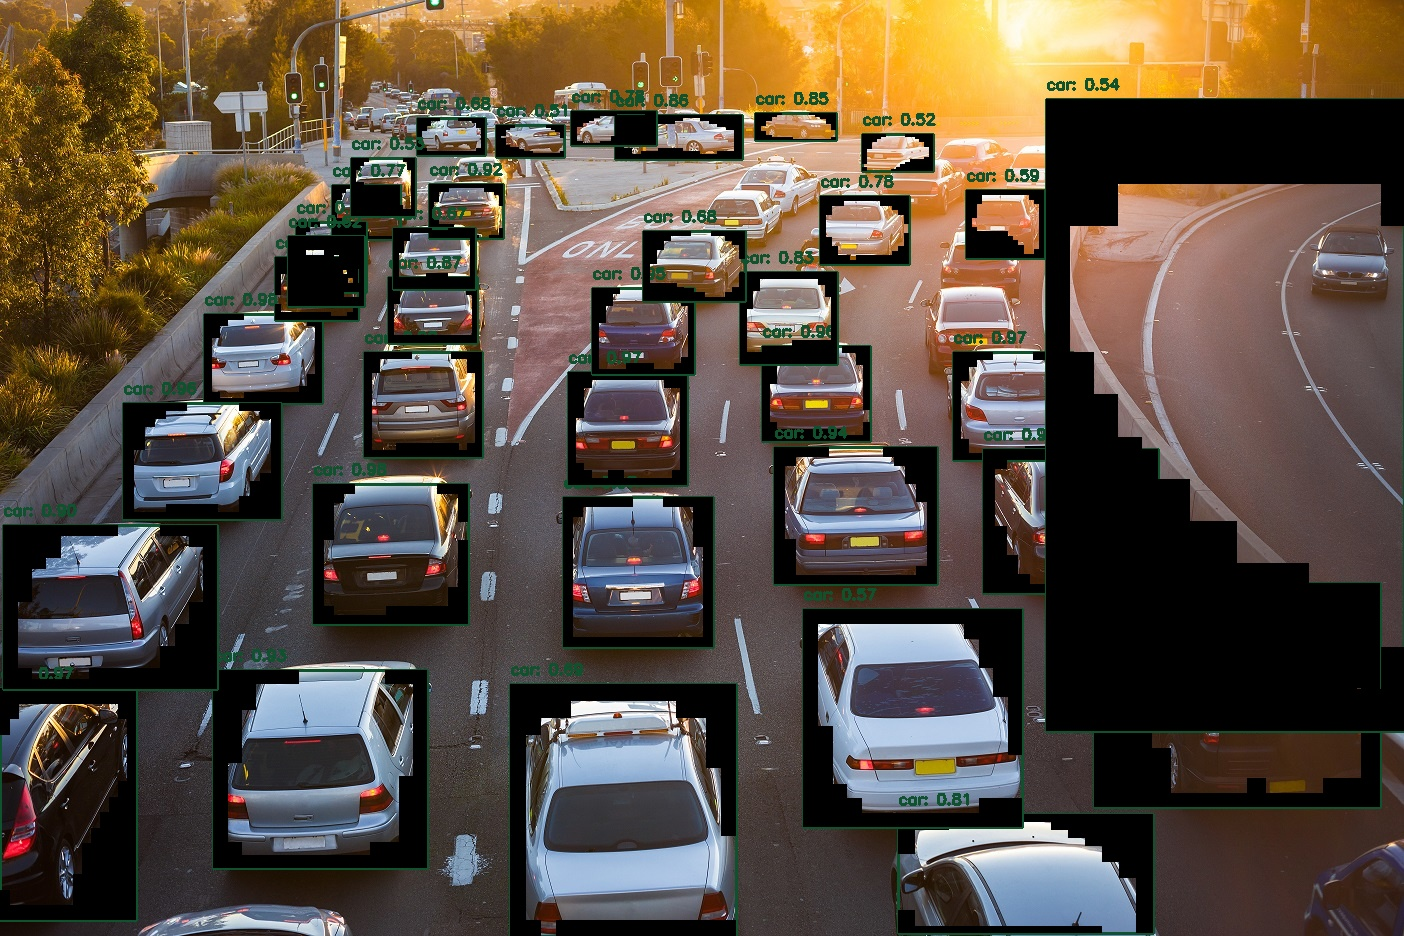
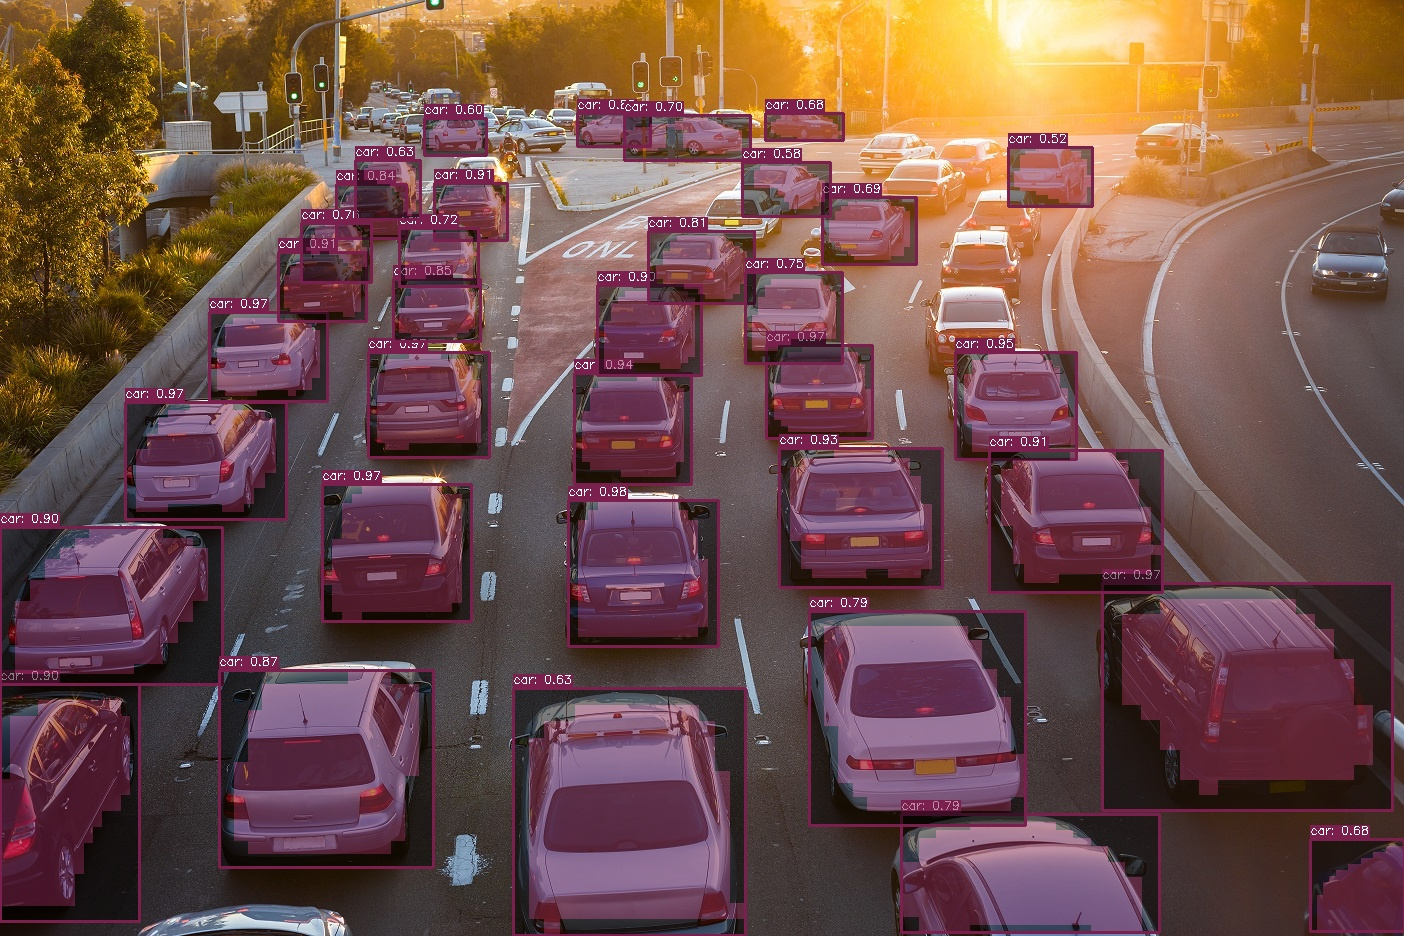
files added

diff --git a/app.py b/app.py
@@ -89,9 +89,6 @@ def process_frame(frame):
     # Perform forward pass to get the detections and masks
     (boxes, masks) = net.forward(["detection_out_final", "detection_masks"])
 
-    # Debug: Print the number of detections
-    print(f"Number of detections: {boxes.shape[2]}")
-
     # Loop through all detected objects and visualize the results
     for i in range(boxes.shape[2]):
         score = boxes[0, 0, i, 2]  # Get the confidence score
@@ -100,30 +97,35 @@ def process_frame(frame):
             box = boxes[0, 0, i, 3:7] * np.array([width, height, width, height])
             (x1, y1, x2, y2) = box.astype("int")  # Get the coordinates of the bounding box
 
-            # Debug: Print detection details
-            print(f"Detection {i}: Class={classes[class_id]}, Score={score:.2f}, Box={[x1, y1, x2, y2]}")
-
-            # Draw the bounding box
-            color = [int(c) for c in colors[class_id]]
-            cv2.rectangle(frame, (x1, y1), (x2, y2), color, 2)
-
-            # Display the label
-            label = f"{classes[class_id]}: {score:.2f}"
-            cv2.putText(frame, label, (x1, y1 - 10), cv2.FONT_HERSHEY_SIMPLEX, 0.5, color, 2)
-
             # Extract and resize the mask for the object
             mask = masks[i, class_id]
             mask = cv2.resize(mask, (x2 - x1, y2 - y1), interpolation=cv2.INTER_NEAREST)
 
-            # Threshold the mask and apply it to the region of interest (ROI)
-            mask = (mask > 0.5).astype("uint8") * 255  # Threshold to create a binary mask
-            roi = frame[y1:y2, x1:x2]
-            masked_roi = cv2.bitwise_and(roi, roi, mask=mask)  # Apply the mask to the ROI
-            frame[y1:y2, x1:x2] = masked_roi  # Replace the ROI with the masked version
+            # Threshold the mask to create a binary mask
+            mask = (mask > 0.5).astype("uint8")
+
+            # Create a dark color for the mask
+            color = [int(c * 0.5) for c in colors[class_id]]  # Darken the color
+
+            # Create a colored mask overlay
+            colored_mask = np.zeros_like(frame[y1:y2, x1:x2], dtype=np.uint8)
+            colored_mask[mask > 0] = color  # Apply the dark color to the mask region
+
+            # Blend the colored mask with the original frame
+            alpha = 0.5  # Transparency factor (0 = fully transparent, 1 = fully opaque)
+            frame[y1:y2, x1:x2] = cv2.addWeighted(colored_mask, alpha, frame[y1:y2, x1:x2], 1 - alpha, 0)
+
+            # Draw the bounding box
+            cv2.rectangle(frame, (x1, y1), (x2, y2), color, 2)
+
+            # Display the label with a background for better visibility
+            label = f"{classes[class_id]}: {score:.2f}"
+            (label_width, label_height), _ = cv2.getTextSize(label, cv2.FONT_HERSHEY_SIMPLEX, 0.4, 1)  # Smaller font size
+            cv2.rectangle(frame, (x1, y1 - label_height - 5), (x1 + label_width, y1), color, -1)  # Background
+            cv2.putText(frame, label, (x1, y1 - 5), cv2.FONT_HERSHEY_SIMPLEX, 0.4, (255, 255, 255), 1)  # Smaller text
 
     print("Frame processed.")
     return frame
-
 
 def detect_on_image(image_path):
     """
